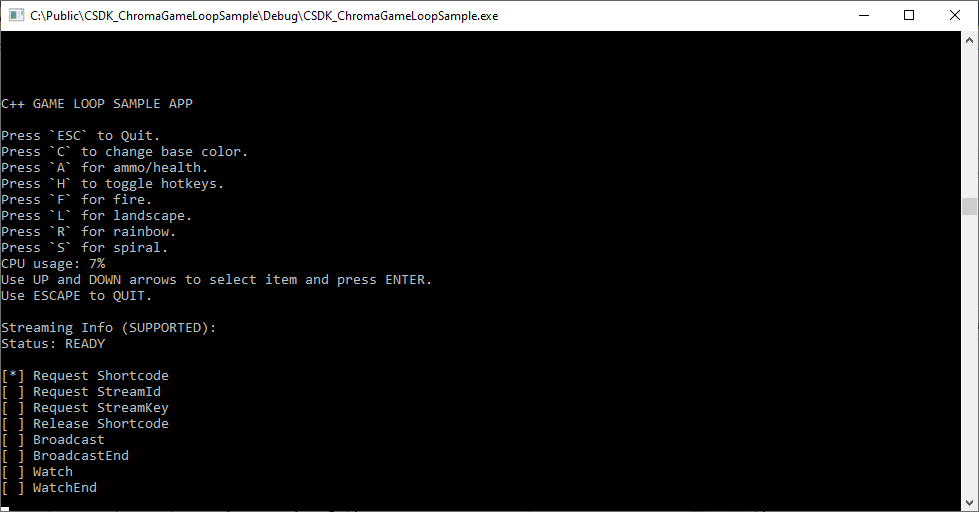
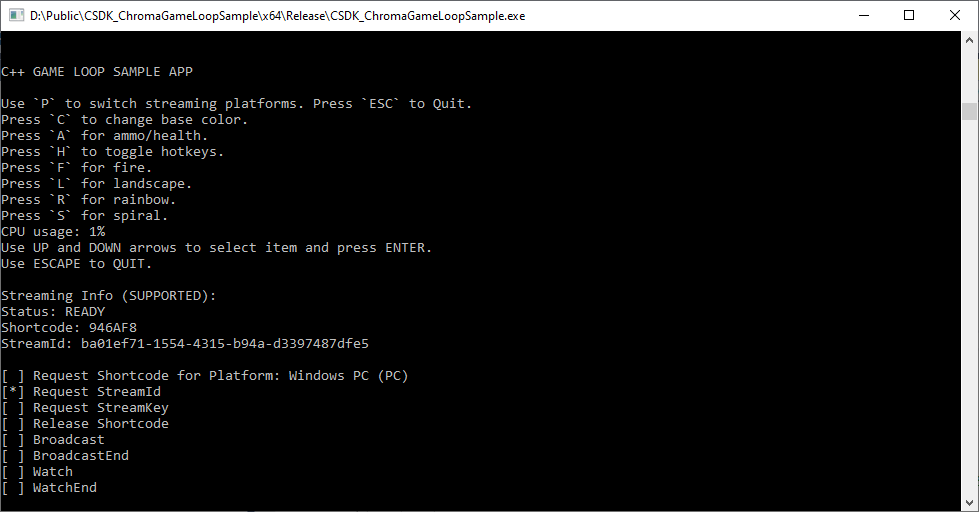
Added 'P toggle for streaming platforms

diff --git a/main.cpp b/main.cpp
@@ -74,7 +74,7 @@ const char* IsSelected(int index)
 
 CpuUsage _gUsage;
 
-void PrintLegend(bool supportsStreaming)
+void PrintLegend(bool supportsStreaming, BYTE platform)
 {
 	for (int i = 0; i < 25; ++i)
 	{
@@ -84,6 +84,10 @@ void PrintLegend(bool supportsStreaming)
 	fprintf(stdout, "C++ GAME LOOP SAMPLE APP\r\n");
 	fprintf(stdout, "\r\n");
 
+	if (supportsStreaming)
+	{
+		fprintf(stdout, "Use `P` to switch streaming platforms. ");
+	}
 	cout << "Press `ESC` to Quit." << endl;
 	cout << "Press `C` to change base color." << endl;
 	cout << "Press `A` for ammo/health." << endl;
@@ -123,7 +127,23 @@ void PrintLegend(bool supportsStreaming)
 	int index = -1;
 	if (supportsStreaming)
 	{
-		fprintf(stdout, "[%s] Request Shortcode\r\n", IsSelected(++index));
+		fprintf(stdout, "[%s] Request Shortcode for Platform: ", IsSelected(++index));
+
+		switch (platform)
+		{
+		case 0:
+			fprintf(stdout, "Windows PC (PC)\r\n");
+			break;
+		case 1:
+			fprintf(stdout, "Windows Cloud (LUNA)\r\n");
+			break;
+		case 2:
+			fprintf(stdout, "Windows Cloud (GEFORCE NOW)\r\n");
+			break;
+		case 3:
+			fprintf(stdout, "Windows Cloud (GAME PASS)\r\n");
+			break;
+		}
 		fprintf(stdout, "[%s] Request StreamId\r\n", IsSelected(++index));
 		fprintf(stdout, "[%s] Request StreamKey\r\n", IsSelected(++index));
 		fprintf(stdout, "[%s] Release Shortcode\r\n", IsSelected(++index));
@@ -789,8 +809,11 @@ void InputHandler()
 	HandleInput inputF = HandleInput('F');
 	HandleInput inputR = HandleInput('R');
 	HandleInput inputS = HandleInput('S');
+	HandleInput inputPlatform = HandleInput('P');
 
 	bool inputDetected = true;
+
+	BYTE platform = 0;
 
 	int autoPrint = 0;
 	while (_sWaitForExit)
@@ -798,7 +821,7 @@ void InputHandler()
 		if (++autoPrint > 100 || inputDetected)
 		{
 			autoPrint = 0;
-			PrintLegend(supportsStreaming);
+			PrintLegend(supportsStreaming, platform);
 		}
 
 		inputDetected = false;
@@ -829,7 +852,25 @@ void InputHandler()
 				switch (_sSelection)
 				{
 				case 0:
-					ChromaAnimationAPI::CoreStreamGetAuthShortcode(_sShortcode, &_sLenShortcode, L"PC", L"C++ Game Loop Sample App 好");
+					{
+						wstring strPlatform = L"PC";
+						switch (platform)
+						{
+						case 0:
+							strPlatform = L"PC";
+							break;
+						case 1:
+							strPlatform = L"LUNA";
+							break;
+						case 2:
+							strPlatform = L"GEFORCE_NOW";
+							break;
+						case 3:
+							strPlatform = L"GAME_PASS";
+							break;
+						}
+						ChromaAnimationAPI::CoreStreamGetAuthShortcode(_sShortcode, &_sLenShortcode, strPlatform.c_str(), L"C++ Game Loop Sample App 好");
+					}
 					break;
 				case 1:
 					ChromaAnimationAPI::CoreStreamGetId(_sShortcode, _sStreamId, &_sLenStreamId);
@@ -864,6 +905,11 @@ void InputHandler()
 		{
 			inputDetected = true;
 			_sWaitForExit = false;
+		}
+		if (inputPlatform.WasReleased())
+		{
+			inputDetected = true;
+			platform = (platform + 1) % 4; //PC, AMAZON LUNA, MS GAME PASS, NVIDIA GFN
 		}
 		if (inputA.WasReleased())
 		{

diff --git a/Razer/ChromaAnimationAPI.h b/Razer/ChromaAnimationAPI.h
@@ -612,7 +612,7 @@ typedef bool		(*PLUGIN_CORE_STREAM_GET_FOCUS)(char* focus, unsigned char* length
 	Retrieve the stream id after authorizing the shortcode. The authorization 
 	window will expire in 5 minutes. Be sure to save the stream key before 
 	the window expires.  platform: is the null terminated string that identifies 
-	the source of the stream: { GEFORCE_NOW, LUNA, STADIA, XBOX_GAME_PASS } 
+	the source of the stream: { GEFORCE_NOW, LUNA, STADIA, GAME_PASS } 
 	StreamGetStatus() should return the READY status to use this method.
 */
 typedef void		(*PLUGIN_CORE_STREAM_GET_ID)(const char* shortcode, char* streamId, unsigned char* length);
@@ -3272,7 +3272,7 @@ namespace ChromaSDK
 			Retrieve the stream id after authorizing the shortcode. The authorization 
 			window will expire in 5 minutes. Be sure to save the stream key before 
 			the window expires.  platform: is the null terminated string that identifies 
-			the source of the stream: { GEFORCE_NOW, LUNA, STADIA, XBOX_GAME_PASS } 
+			the source of the stream: { GEFORCE_NOW, LUNA, STADIA, GAME_PASS } 
 			StreamGetStatus() should return the READY status to use this method.
 		*/
 		CHROMASDK_DECLARE_METHOD(PLUGIN_CORE_STREAM_GET_ID, CoreStreamGetId);

diff --git a/README.md b/README.md
@@ -2614,7 +2614,7 @@ is greater than zero, it will be the length of the returned streaming id.
 Retrieve the stream id after authorizing the shortcode. The authorization 
 window will expire in 5 minutes. Be sure to save the stream key before 
 the window expires.  platform: is the null terminated string that identifies 
-the source of the stream: { GEFORCE_NOW, LUNA, STADIA, XBOX_GAME_PASS } 
+the source of the stream: { GEFORCE_NOW, LUNA, STADIA, GAME_PASS } 
 StreamGetStatus() should return the READY status to use this method.
 
 ```C++
